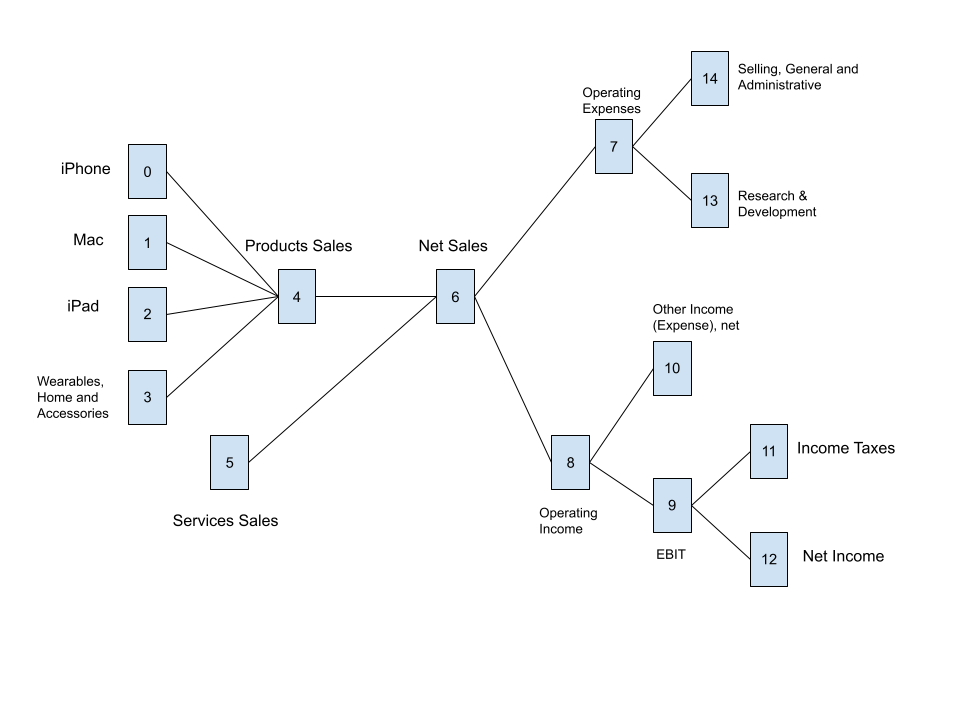
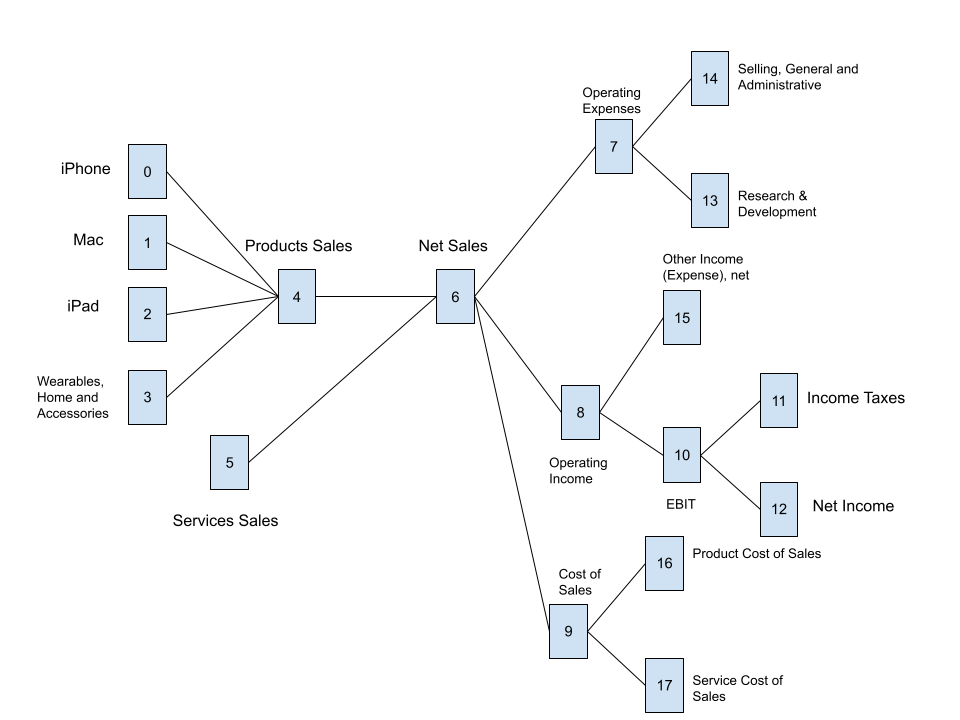
Drafted AAPL income statement script
- Added cost of sales (Previously missing)

diff --git a/dashboard/data/aapl/data_incsmt_aapl.py b/dashboard/data/aapl/data_incsmt_aapl.py
@@ -1,0 +1,121 @@
+from pathlib import Path
+import json
+import pandas as pd
+
+
+# Read the Node structure setup json file
+def get_nodes():
+	curr_dir = Path(__file__).parent
+	f = open(f'{curr_dir}/nodes_aapl_incsmt.json')
+	return json.load(f)
+
+# Add sankey links with data, color, direction
+def add_node_to_link(links, source, target, value, color):
+	links['source'].append(source)
+	links['target'].append(target)
+	links['value'].append(value)
+	links['color'].append(color)
+	return links
+
+# Translate CSV data into sankey setup
+def get_data(df):
+	# Initiate result dict
+	links = {
+		'source': [],
+		'target': [],
+		'value': [],
+		'color': []
+	}
+	# Obtain prepared sankey nodes setup
+	nodes = get_nodes()
+	nodes_label = [k for k in nodes.keys()]
+	
+	# Node 8-12 taken care later since depends on +/- numbers
+	# Hardcode the colors
+	nodes_colors = ['gray']*7 + ['red']*11
+	# Map each KPI with the preassigned index number in nodes_label
+	df_temp = {'Items': [k for k in nodes.keys()], 
+		'Node_num':[nodes[k] for k in nodes.keys()]}
+	df = pd.merge(df, pd.DataFrame(df_temp), on='Items', how='inner')
+
+	# Revenue
+	## Product sales
+	prod_sales = 0
+	for i in range(4):
+		df_revenue = df[df['Node_num']==i]
+		curr_value = df_revenue['Value'].values[0]
+		links = add_node_to_link(links, i, 4, curr_value, 'lightgray')
+		prod_sales += curr_value
+	links = add_node_to_link(links, 4, 6, prod_sales , 'lightgray')
+
+	## Service sales
+	curr_value = df[df['Node_num']==5]['Value'].values[0]
+	links = add_node_to_link(links, 5, 6, curr_value , 'lightgray')
+
+
+	# Operating Income
+	## EBIT
+	ebit = 0
+	### Income Tax
+	inc_tax = df[df['Node_num']==11]['Value'].values[0]
+	if inc_tax > 0:
+		links = add_node_to_link(links, 10, 11, inc_tax, 'lightpink')
+	else:
+		links = add_node_to_link(links, 11, 10, inc_tax, 'lightgreen')
+		# Change node to green if tax refuen
+		nodes_colors[11] = 'green'
+	ebit += inc_tax
+
+	### Net Income
+	net_inc = df[df['Node_num']==12]['Value'].values[0]
+	if net_inc > 0:
+		links = add_node_to_link(links, 10, 12, net_inc, 'lightgreen')
+		# Change net income node and EBIT node to green
+		nodes_colors[10] = 'green'
+		nodes_colors[12] = 'green'
+	else:
+		links = add_node_to_link(links, 12, 10, -1*net_inc, 'lightpink')
+	ebit += net_inc
+
+	### EBIT
+	if ebit > 0:
+		links = add_node_to_link(links, 8, 10, ebit, 'lightgreen')
+		nodes_colors[8] = 'green'
+	else:
+		links = add_node_to_link(links, 10, 8, -1*ebit, 'lightpink')
+
+	### Other Income
+	inc_other = df[df['Node_num']==15]['Value'].values[0]
+	if inc_other > 0:
+		links = add_node_to_link(links, 15, 8, inc_other, 'lightgreen')
+		nodes_colors[8] = 'green'
+	else:
+		links = add_node_to_link(links, 8, 15, -1*inc_other, 'lightpink')
+
+	# Cost of Sales
+	cogs = 0
+	for i in range(16,18):
+		df_expense = df[df['Node_num']==i]
+		curr_value = df_expense['Value'].values[0]
+		links = add_node_to_link(links, 9, i, curr_value, 'lightpink')
+		cogs += curr_value
+	links = add_node_to_link(links, 6, 9, cogs , 'lightpink')
+
+	### Operating Income to Net Sales
+	op_inc = ebit + inc_other
+	if op_inc > 0:
+		links = add_node_to_link(links, 6, 8, op_inc, 'lightgreen')
+	else:
+		links = add_node_to_link(links, 8, 6, -1*op_inc, 'lightpink')
+
+	# Operating Expenses
+	op_exp = 0
+	for i in range(13,15):
+		df_expense = df[df['Node_num']==i]
+		curr_value = df_expense['Value'].values[0]
+		links = add_node_to_link(links, 7, i, curr_value, 'lightpink')
+		op_exp += curr_value
+	links = add_node_to_link(links, 6, 7, op_exp , 'lightpink')
+		
+
+	return nodes_label, nodes_colors, links

diff --git a/dashboard/data/aapl/income_aapl.py b/dashboard/data/aapl/income_aapl.py
@@ -1,0 +1,24 @@
+import pandas as pd
+import plotly
+import plotly.graph_objs as go
+from data.aapl.data_incsmt_aapl import *
+
+
+def income_statement_AAPL(data):
+    nodes_label, nodes_colors, links = get_data(data)
+    fig = go.Figure(data=[go.Sankey(
+        node = dict(
+          pad = 15,
+          thickness = 20,
+          line = dict(color = "black", width = 0.5),
+          label = nodes_label,
+          color = nodes_colors
+        ),
+        link = dict(
+          source = links['source'], 
+          target = links['target'],
+          value = links['value'],
+          color = links['color']
+      ))])
+    return fig
+

diff --git a/dashboard/income_statement.py b/dashboard/income_statement.py
@@ -2,6 +2,7 @@ import pandas as pd
 import data.googl.poc_charts.income_googl_poc as example # For poc purpose, delete later
 # from income_googl import *
 from data.googl.income_googl import *
+from data.aapl.income_aapl import *
 
 
 # Function called by dashboard.py
@@ -9,4 +10,6 @@ def income_statement_figure(company, data):
 	# For Google
 	if company == 'googl':
 		return income_statement_GOOGL(data)
+	elif company == 'aapl':
+		return income_statement_AAPL(data)
 	return None
